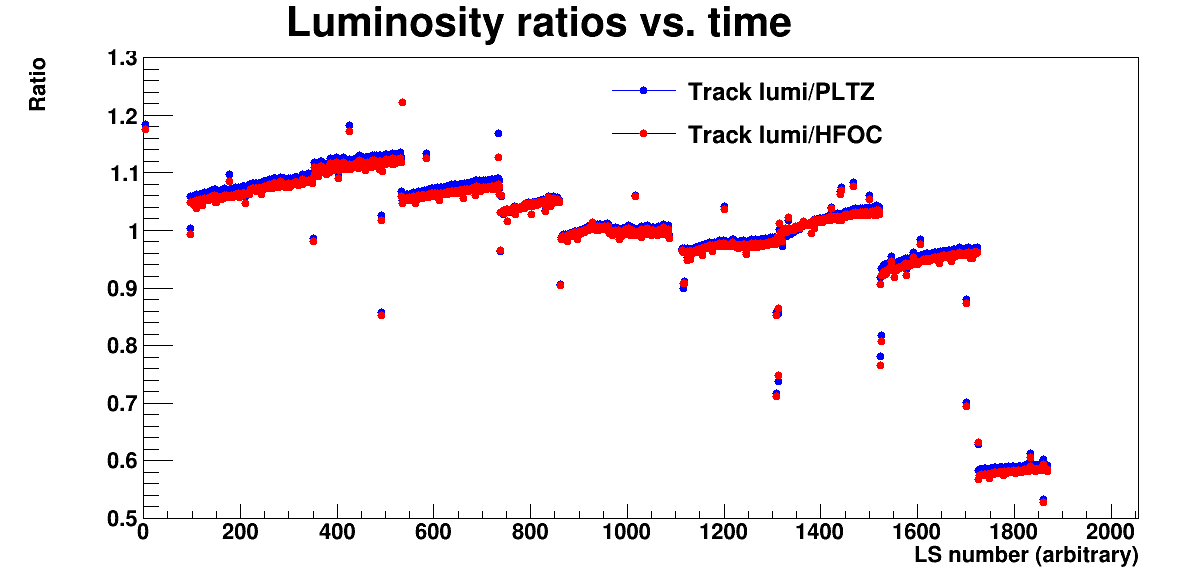
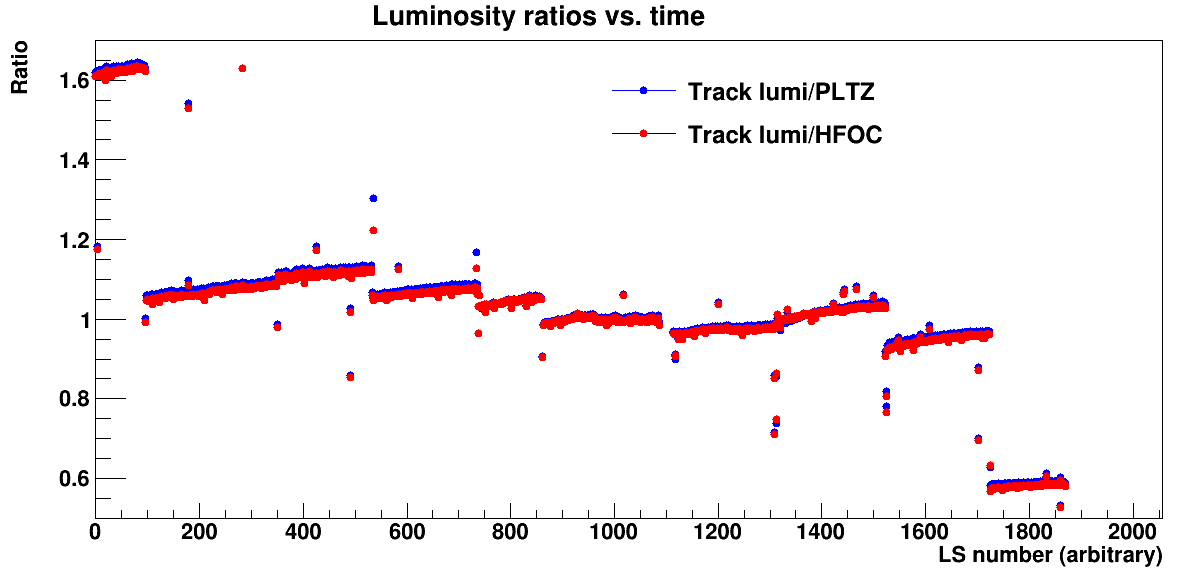
fix y limits for constant scale factor so we can actually see the first fill

diff --git a/TrackLumi2020/StabilityLinearity.C b/TrackLumi2020/StabilityLinearity.C
@@ -311,7 +311,7 @@ void StabilityLinearity(void) {
   g_rtp->SetLineColor(kBlue);
   g_rtp->SetMarkerSize(1);
   if (constScaleFactor > 0) {
-    g_rtp->SetMaximum(1.3);
+    g_rtp->SetMaximum(1.7);
     g_rtp->SetMinimum(0.5);
   }
   else {
